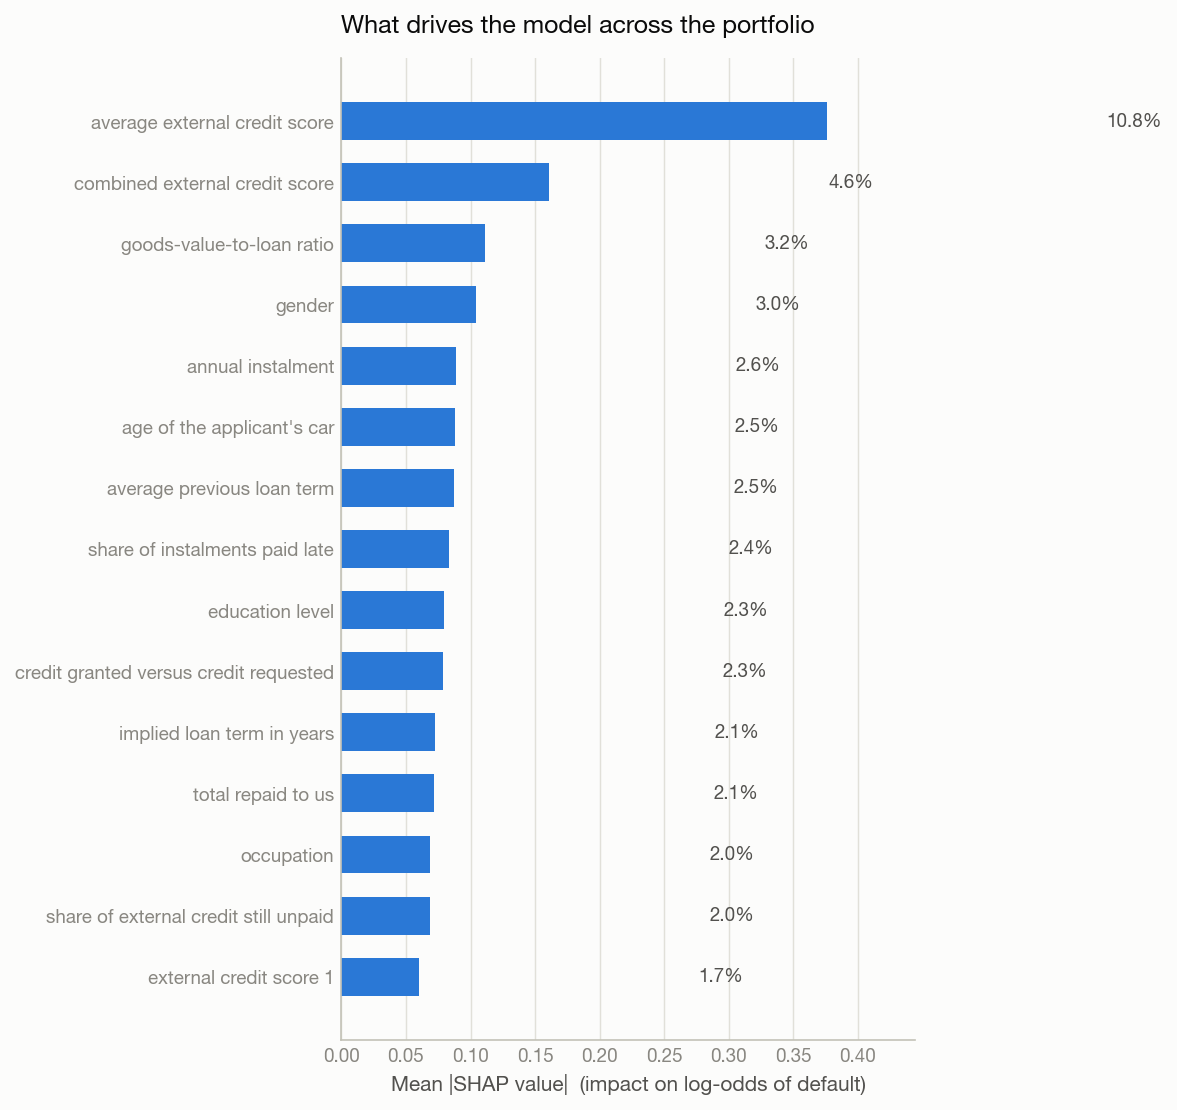
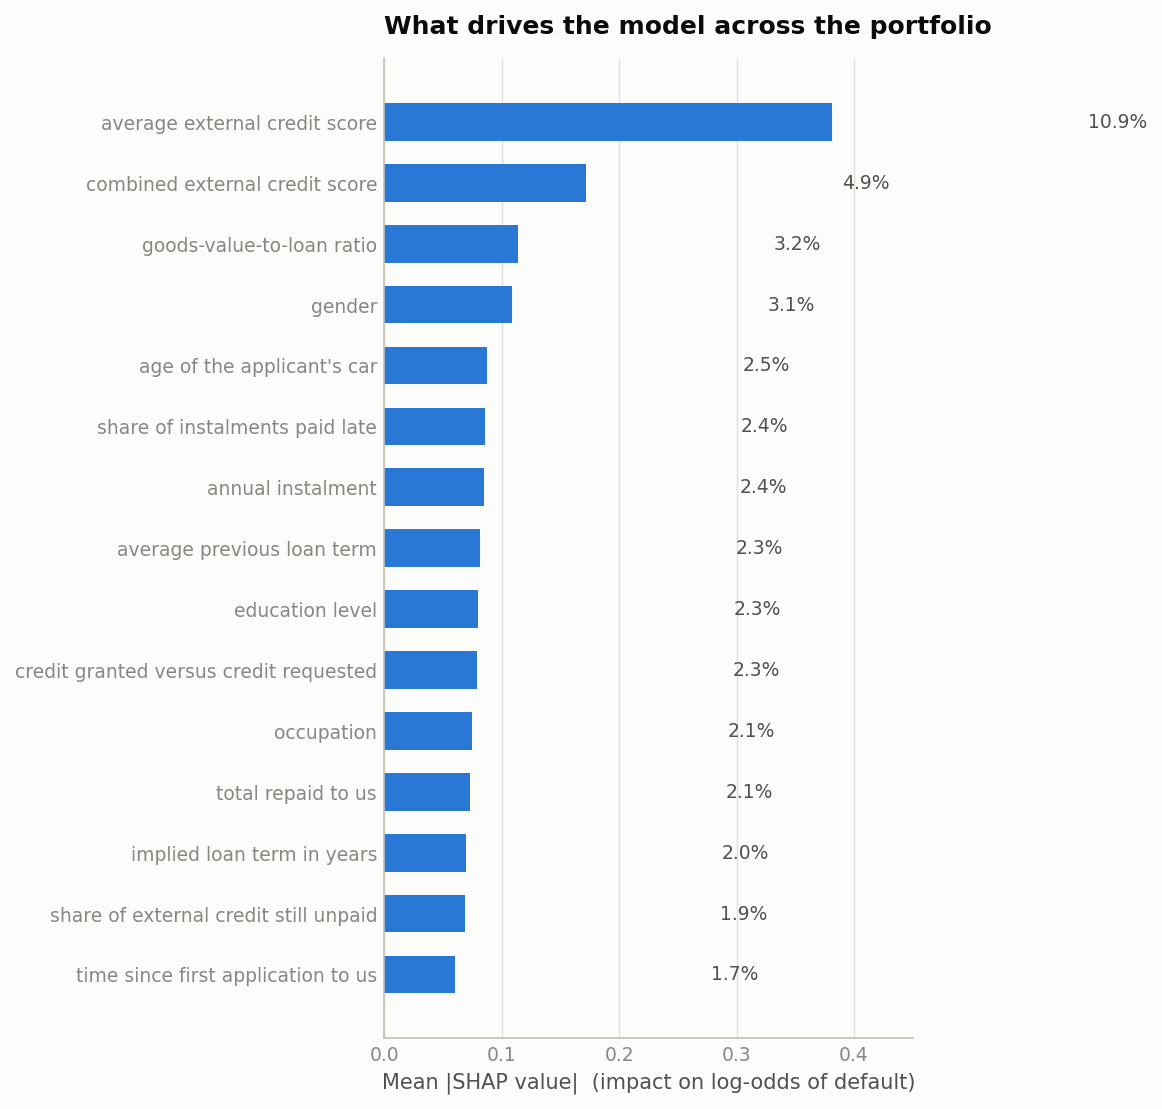
Make the app deployable to a managed platform
A deployed link is now required, and the app could not have served one. On a
platform that simply runs 'streamlit run', nothing executes the Docker
entrypoint, so the analytics database was never built -- the Chat tab would
have come up against an empty schema and rejected every question as referencing
an unknown table. That looks like a broken feature rather than a missing setup
step.

- db_loader.ensure_database_loaded() builds the tables when it finds them
  absent or empty, and the UI calls it on first chat use. Idempotent: it
  inspects before loading.
- .streamlit/config.toml carries server settings and a theme matching the
  validated chart palette, so the interface and the figures inside it read as
  one system.
- Secrets are bridged into the environment before settings are constructed.
  Parsed with tomllib rather than through st.secrets, because touching the
  Streamlit API counts as issuing a command and set_page_config() must be the
  first one -- which broke every UI test until the file was read directly.
  Existing environment variables win, so a container's own configuration is
  never overridden.

Verified in a clone configured exactly as the platform would: no PostgreSQL, no
entrypoint, no model runtime, secrets file only. All six sections render, the
app builds its own database, and SQL validates and executes. Peak memory 356MB,
against a 1GB free tier.

README documents the deployment, including that the deployed app runs on
[…]

diff --git a/src/ui/app.py b/src/ui/app.py
@@ -20,6 +20,7 @@ Run it with::
 
 from __future__ import annotations
 
+import os
 import sys
 from pathlib import Path
 from typing import Any
@@ -31,6 +32,53 @@ if str(PROJECT_ROOT) not in sys.path:
 
 import pandas as pd
 import streamlit as st
+
+
+def _apply_streamlit_secrets() -> None:
+    """Copy Streamlit secrets into the environment before settings are read.
+
+    Managed platforms supply configuration as a secrets file rather than real
+    environment variables, but this project's settings object reads the
+    environment and is constructed at import time. So the bridge has to run
+    before any module that imports ``settings``.
+
+    The file is parsed directly with ``tomllib`` rather than through
+    ``st.secrets``: touching the Streamlit API counts as issuing a Streamlit
+    command, and ``set_page_config()`` must be the first one. Reading the file
+    ourselves keeps this a plain filesystem operation.
+
+    Existing environment variables win, so a container's own configuration is
+    never overridden by a secrets file that happens to be present.
+    """
+    import tomllib
+
+    secrets: dict[str, object] = {}
+    for candidate in (
+        PROJECT_ROOT / ".streamlit" / "secrets.toml",
+        Path.home() / ".streamlit" / "secrets.toml",
+    ):
+        try:
+            if candidate.is_file():
+                with candidate.open("rb") as handle:
+                    secrets.update(tomllib.load(handle))
+        except Exception:  # noqa: BLE001 - a malformed file must not stop the app
+            continue
+    if not secrets:
+        return
+
+    for key in (
+        "DATA_MODE", "USE_SQLITE_FALLBACK", "SQLITE_PATH", "LOG_LEVEL",
+        "POSTGRES_HOST", "POSTGRES_PORT", "POSTGRES_USER", "POSTGRES_PASSWORD",
+        "POSTGRES_DB", "POSTGRES_READONLY_USER", "POSTGRES_READONLY_PASSWORD",
+        "LLM_PROVIDER", "LLM_MODEL", "LLM_TIMEOUT_SECONDS", "OLLAMA_BASE_URL",
+        "OPENAI_API_KEY", "ANTHROPIC_API_KEY", "GOOGLE_API_KEY",
+        "SQL_MAX_ROWS", "SQL_TIMEOUT_SECONDS", "MEMORY_MAX_TURNS",
+    ):
+        if key in secrets and key not in os.environ:
+            os.environ[key] = str(secrets[key])
+
+
+_apply_streamlit_secrets()
 
 from src.utils.config import settings
 from src.utils.logger import get_logger
@@ -118,6 +166,24 @@ def load_policy_rules() -> Any | None:
         return None
 
 
+@st.cache_resource(show_spinner="Preparing the analytics database...")
+def ensure_analytics_database() -> bool:
+    """Build the analytics tables on first use if they are absent.
+
+    Under docker-compose the entrypoint does this before the app starts. On a
+    platform that simply runs `streamlit run`, nothing does -- so the app builds
+    them itself the first time the chat is opened. Cached, so it happens once
+    per process rather than once per interaction.
+    """
+    from src.data.db_loader import ensure_database_loaded
+
+    try:
+        return ensure_database_loaded()
+    except Exception as error:  # noqa: BLE001 - chat degrades, app continues
+        logger.warning("Could not prepare the analytics database: %s", error)
+        return False
+
+
 def get_chat_interface() -> Any:
     """Build the talk-to-data interface once per session.
 
@@ -128,6 +194,7 @@ def get_chat_interface() -> Any:
         from src.talk_to_data.nl_to_sql import TalkToData
 
         try:
+            ensure_analytics_database()
             st.session_state["chat"] = TalkToData()
             st.session_state["chat_error"] = None
         except Exception as error:  # noqa: BLE001 - typically the DB being absent

diff --git a/src/data/db_loader.py b/src/data/db_loader.py
@@ -373,6 +373,44 @@ def load_database(include_predictions: bool = True, engine: Engine | None = None
     return counts
 
 
+def ensure_database_loaded(engine: Engine | None = None) -> bool:
+    """Build the analytics tables if they are missing or empty.
+
+    The Docker entrypoint loads the database before starting the app, but a
+    platform-as-a-service deployment just runs ``streamlit run`` -- nothing
+    executes the entrypoint. Without this the chat would come up against an
+    empty database and reject every question as referencing an unknown table,
+    which looks like a broken feature rather than a missing setup step.
+
+    Idempotent and cheap to call: it inspects first and only loads when there
+    is nothing there.
+
+    Args:
+        engine: Target engine; the configured one is used if omitted.
+
+    Returns:
+        True if a load was performed, False if the tables were already present.
+    """
+    target = engine or get_engine()
+    try:
+        counts = table_row_counts(target)
+    except SQLAlchemyError as error:
+        logger.warning("Could not inspect the database: %s", error)
+        return False
+
+    if counts.get("applications", 0) > 0:
+        logger.debug("Analytics tables already present (%s)", counts)
+        return False
+
+    logger.info("Analytics database is empty; loading it now")
+    try:
+        load_database(include_predictions=True, engine=target)
+        return True
+    except Exception as error:  # noqa: BLE001 - reported, app continues
+        logger.warning("Could not load the analytics database: %s", error)
+        return False
+
+
 def table_row_counts(engine: Engine | None = None) -> dict[str, int]:
     """Return the current row count of every analytics table that exists."""
     target = engine or get_engine()

diff --git a/README.md b/README.md
@@ -28,7 +28,7 @@ and applicant records never leave the machine.
 
 1. [What it does](#1-what-it-does)
 2. [Architecture](#2-architecture)
-3. [Getting started](#3-getting-started) · [Lightweight deployment](#lightweight-deployment)
+3. [Getting started](#3-getting-started) · [Deploy publicly](#deploy-it-publicly-streamlit-community-cloud-free)
 4. [Using the real Kaggle data](#4-using-the-real-kaggle-data)
 5. [Exploratory analysis](#5-exploratory-analysis)
 6. [Model selection and results](#6-model-selection-and-results)
@@ -160,6 +160,42 @@ Or skip PostgreSQL entirely with `USE_SQLITE_FALLBACK=true`. Everything except
 production-grade concurrency works the same.
 
 ---
+
+### Deploy it publicly (Streamlit Community Cloud, free)
+
+The app is ready to deploy as-is — it builds its own analytics database on
+first use, falls back to SQLite when no PostgreSQL is configured, and serves the
+committed model so there is no training step.
+
+1. Go to **share.streamlit.io** and sign in with GitHub.
+2. **New app** → pick this repository, branch `main`, main file
+   `src/ui/app.py`.
+3. Open **Advanced settings → Secrets** and paste:
+
+   ```toml
+   DATA_MODE = "sample"
+   USE_SQLITE_FALLBACK = "true"
+   SQLITE_PATH = "./data/analytics.db"
+   LLM_PROVIDER = "none"
+   ```
+
+4. **Deploy.** First build takes a few minutes while dependencies install.
+
+Measured on this configuration: **peak memory 356 MB**, comfortably inside the
+1 GB free tier.
+
+**To enable the chatbot on the deployed app**, swap the last line for a hosted
+provider and add its key — the local model cannot run on a managed platform:
+
+```toml
+LLM_PROVIDER = "gemini"          # or "openai" / "anthropic"
+GOOGLE_API_KEY = "your-key-here"
+```
+
+Without a key the Chat tab explains that it is unavailable and every other
+section works normally. Note that the deployed app runs on the **synthetic
+fixtures** — the real 2.5GB Kaggle files cannot be committed — but it still
+scores with the model trained on all 307,511 real rows.
 
 ### Lightweight deployment
 
